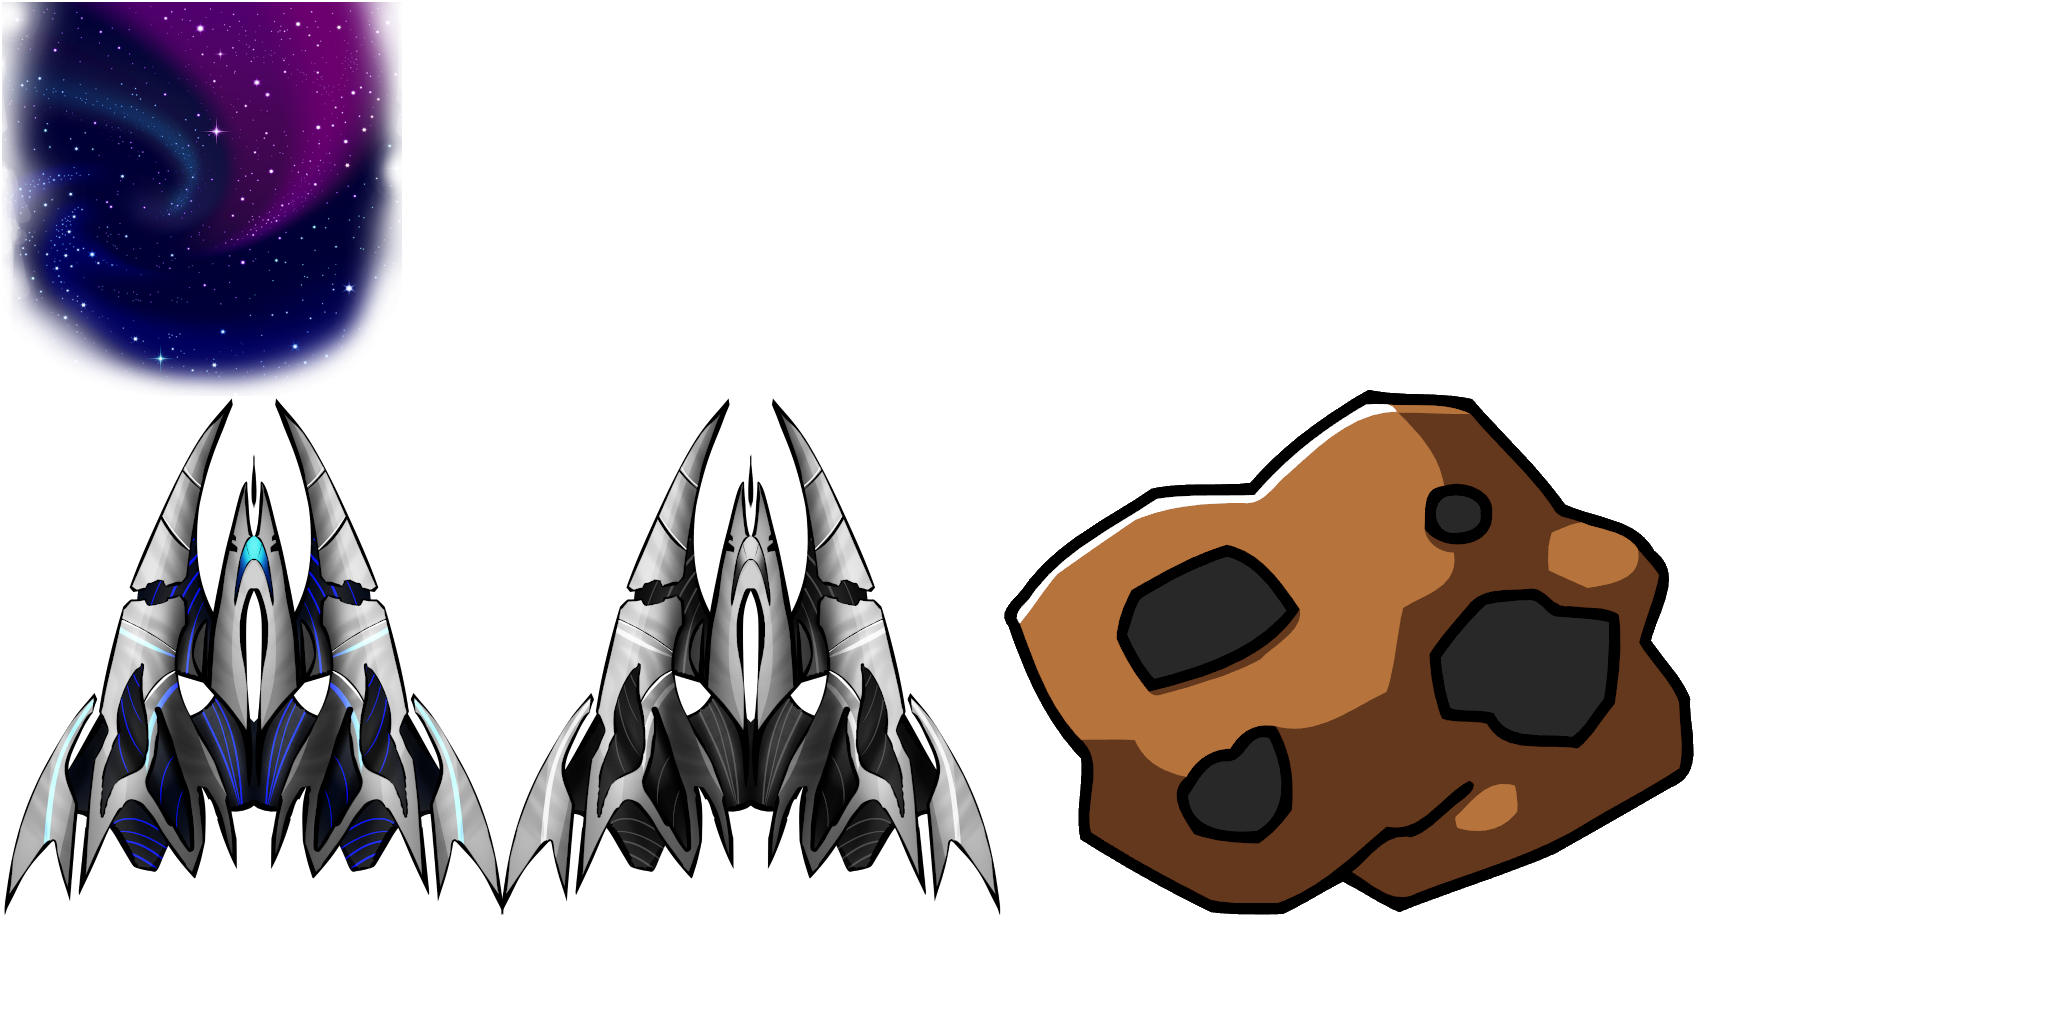
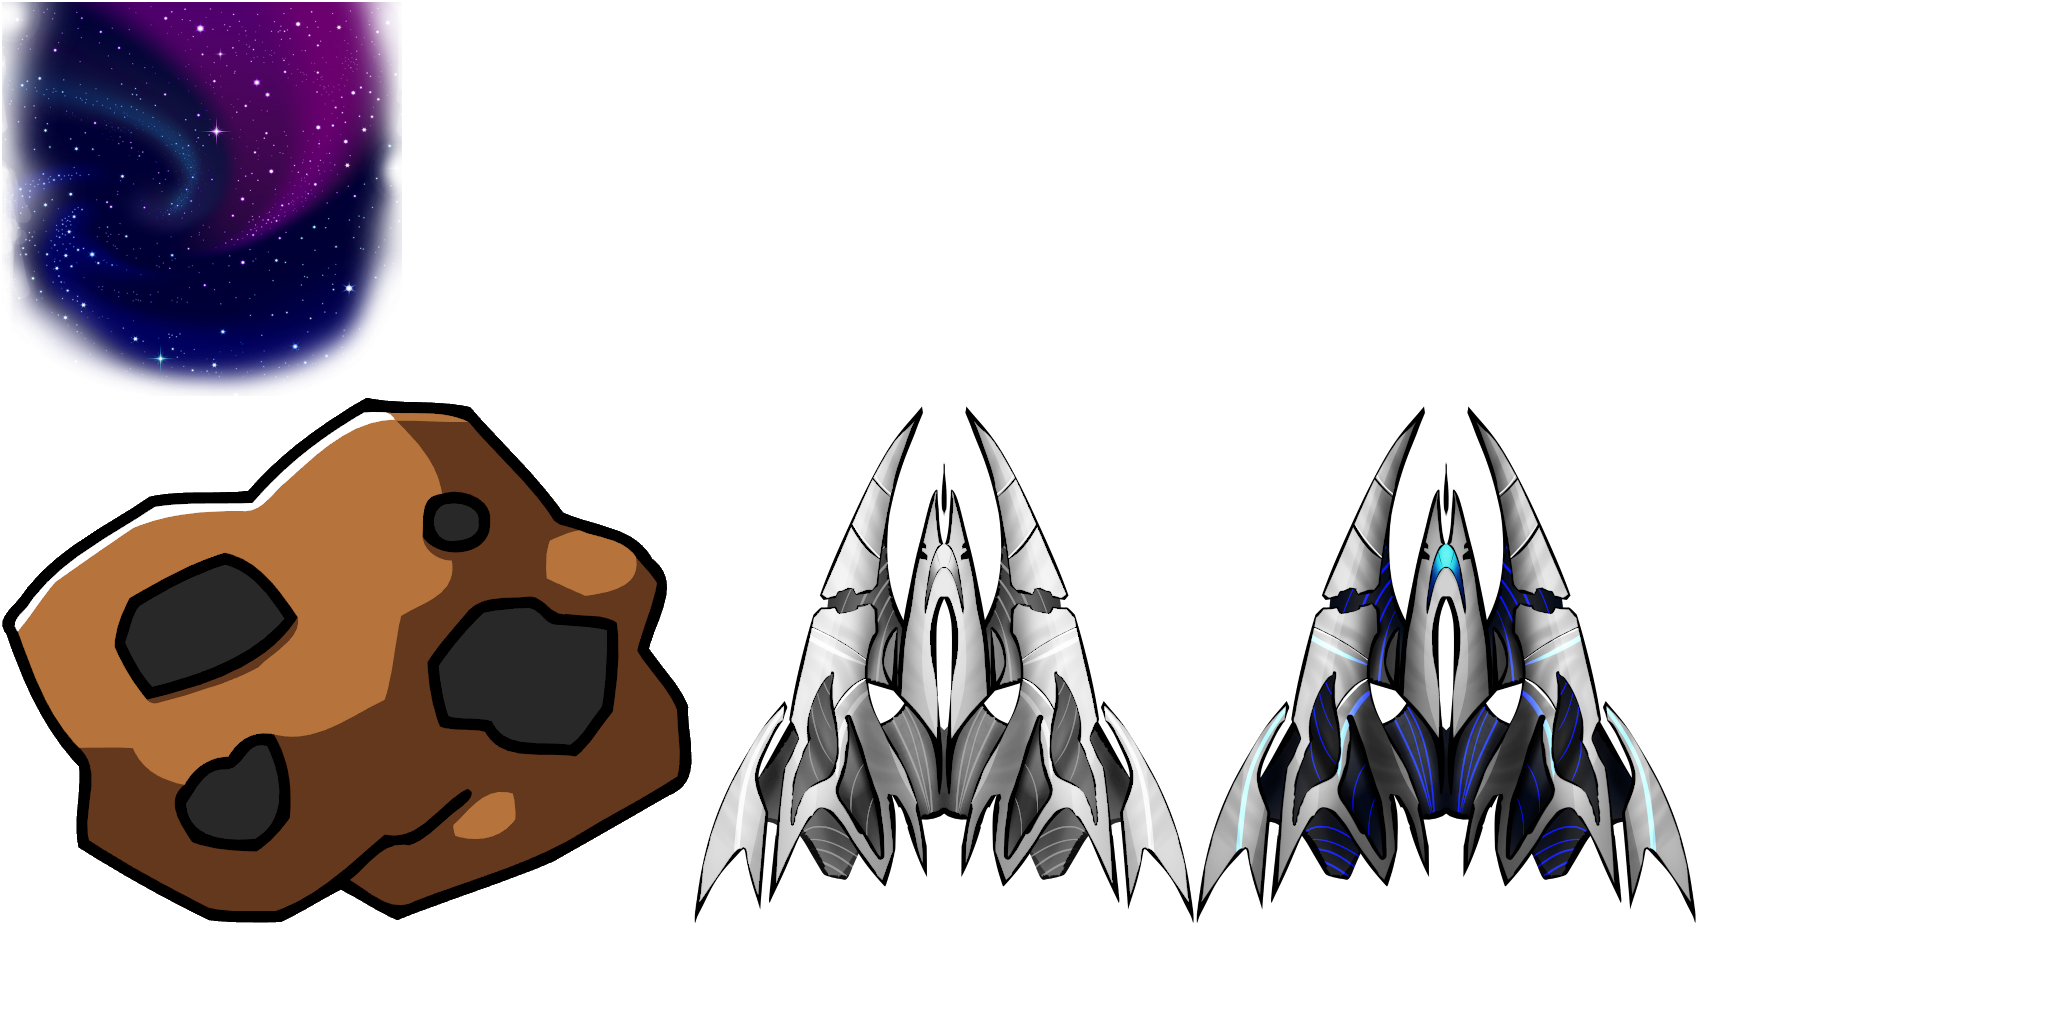
Разделил текстуру корабля на две части, с индексами

diff --git a/core/src/ru/geekbrains/stargame/screen/MenuScreen.java b/core/src/ru/geekbrains/stargame/screen/MenuScreen.java
@@ -4,14 +4,13 @@ import com.badlogic.gdx.Game;
 import com.badlogic.gdx.Gdx;
 import com.badlogic.gdx.graphics.GL20;
 import com.badlogic.gdx.graphics.g2d.TextureAtlas;
-import com.badlogic.gdx.graphics.g2d.TextureRegion;
 import com.badlogic.gdx.math.Vector2;
 import ru.geekbrains.stargame.base.BaseScreen;
 import ru.geekbrains.stargame.exceptions.GameException;
 import ru.geekbrains.stargame.math.Rect;
 import ru.geekbrains.stargame.sprites.BackgroundSprite;
-import ru.geekbrains.stargame.sprites.ButtonExit;
-import ru.geekbrains.stargame.sprites.ButtonPlay;
+import ru.geekbrains.stargame.sprites.ExitButton;
+import ru.geekbrains.stargame.sprites.PlayButton;
 
 public class MenuScreen extends BaseScreen {
   private final Game game;
@@ -19,8 +18,8 @@ public class MenuScreen extends BaseScreen {
   private BackgroundSprite backgroundSprite;
   private TextureAtlas menuAtlas;
   private TextureAtlas gameAtlas;
-  private ButtonExit buttonExit;
-  private ButtonPlay buttonPlay;
+  private ExitButton exitButton;
+  private PlayButton playButton;
 
   public MenuScreen(final Game game) {
     this.game = game;
@@ -31,14 +30,12 @@ public class MenuScreen extends BaseScreen {
     super.show();
 
     menuAtlas = new TextureAtlas(Gdx.files.internal("textures/menuAtlas.pack"));
-
-    gameAtlas = new TextureAtlas("StarGame.atlas");
-    final TextureRegion background = gameAtlas.findRegion("background");
+    gameAtlas = new TextureAtlas(Gdx.files.internal("StarGame.atlas"));
 
     try {
-      backgroundSprite = new BackgroundSprite(background);
-      buttonExit = new ButtonExit(menuAtlas);
-      buttonPlay = new ButtonPlay(menuAtlas, game);
+      backgroundSprite = new BackgroundSprite(gameAtlas);
+      exitButton = new ExitButton(menuAtlas);
+      playButton = new PlayButton(menuAtlas, game);
     } catch (GameException e) {
       throw new RuntimeException(e);
     }
@@ -52,8 +49,8 @@ public class MenuScreen extends BaseScreen {
   @Override
   public void resize(final Rect worldBounds) {
     backgroundSprite.resize(worldBounds);
-    buttonExit.resize(worldBounds);
-    buttonPlay.resize(worldBounds);
+    exitButton.resize(worldBounds);
+    playButton.resize(worldBounds);
   }
 
   @Override
@@ -75,15 +72,15 @@ public class MenuScreen extends BaseScreen {
 
   @Override
   public boolean touchUp(final Vector2 touch, final int pointer, final int button) {
-    buttonExit.touchUp(touch, pointer, button);
-    buttonPlay.touchUp(touch, pointer, button);
+    exitButton.touchUp(touch, pointer, button);
+    playButton.touchUp(touch, pointer, button);
     return false;
   }
 
   @Override
   public boolean touchDown(final Vector2 touch, final int pointer, final int button) {
-    buttonExit.touchDown(touch, pointer, button);
-    buttonPlay.touchDown(touch, pointer, button);
+    exitButton.touchDown(touch, pointer, button);
+    playButton.touchDown(touch, pointer, button);
     return false;
   }
 
@@ -92,8 +89,8 @@ public class MenuScreen extends BaseScreen {
     Gdx.gl.glClear(GL20.GL_COLOR_BUFFER_BIT);
     batch.begin();
     backgroundSprite.draw(batch);
-    buttonPlay.draw(batch);
-    buttonExit.draw(batch);
+    playButton.draw(batch);
+    exitButton.draw(batch);
     batch.end();
   }
 }

diff --git a/core/src/ru/geekbrains/stargame/screen/GameScreen.java b/core/src/ru/geekbrains/stargame/screen/GameScreen.java
@@ -3,7 +3,6 @@ package ru.geekbrains.stargame.screen;
 import com.badlogic.gdx.Gdx;
 import com.badlogic.gdx.graphics.GL20;
 import com.badlogic.gdx.graphics.g2d.TextureAtlas;
-import com.badlogic.gdx.graphics.g2d.TextureRegion;
 import com.badlogic.gdx.math.Vector2;
 import ru.geekbrains.stargame.base.BaseScreen;
 import ru.geekbrains.stargame.exceptions.GameException;
@@ -24,12 +23,10 @@ public class GameScreen extends BaseScreen {
     super.show();
 
     gameAtlas = new TextureAtlas("StarGame.atlas");
-    final TextureRegion background = gameAtlas.findRegion("background");
-    final TextureRegion smallShip = gameAtlas.findRegion("ship");
 
     try {
-      shipSprite = new ShipSprite(smallShip);
-      backgroundSprite = new BackgroundSprite(background);
+      shipSprite = new ShipSprite(gameAtlas);
+      backgroundSprite = new BackgroundSprite(gameAtlas);
       asteroids = new AsteroidSprite[ASTEROID_COUNT];
 
       for (int i = 0; i < ASTEROID_COUNT; i++) {

diff --git a/core/src/ru/geekbrains/stargame/sprites/ShipSprite.java b/core/src/ru/geekbrains/stargame/sprites/ShipSprite.java
@@ -1,6 +1,6 @@
 package ru.geekbrains.stargame.sprites;
 
-import com.badlogic.gdx.graphics.g2d.TextureRegion;
+import com.badlogic.gdx.graphics.g2d.TextureAtlas;
 import com.badlogic.gdx.math.Vector2;
 import ru.geekbrains.stargame.base.Sprite;
 import ru.geekbrains.stargame.exceptions.GameException;
@@ -11,8 +11,8 @@ public class ShipSprite extends Sprite {
   private Vector2 newPosition = new Vector2();
   private Vector2 dir = new Vector2();
 
-  public ShipSprite(TextureRegion texture) throws GameException {
-    super(new TextureRegion(texture));
+  public ShipSprite(TextureAtlas atlas) throws GameException {
+    super(atlas.findRegion("ship", 1));
   }
 
   @Override

diff --git a/core/src/ru/geekbrains/stargame/sprites/BackgroundSprite.java b/core/src/ru/geekbrains/stargame/sprites/BackgroundSprite.java
@@ -1,13 +1,13 @@
 package ru.geekbrains.stargame.sprites;
 
-import com.badlogic.gdx.graphics.g2d.TextureRegion;
+import com.badlogic.gdx.graphics.g2d.TextureAtlas;
 import ru.geekbrains.stargame.base.Sprite;
 import ru.geekbrains.stargame.exceptions.GameException;
 import ru.geekbrains.stargame.math.Rect;
 
 public class BackgroundSprite extends Sprite {
-  public BackgroundSprite(TextureRegion texture) throws GameException {
-    super(new TextureRegion(texture));
+  public BackgroundSprite(TextureAtlas atlas) throws GameException {
+    super(atlas.findRegion("background"));
     this.setSize(1f, 1f);
   }
 

diff --git a/core/src/ru/geekbrains/stargame/sprites/PlayButton.java b/core/src/ru/geekbrains/stargame/sprites/PlayButton.java
@@ -7,11 +7,11 @@ import ru.geekbrains.stargame.exceptions.GameException;
 import ru.geekbrains.stargame.math.Rect;
 import ru.geekbrains.stargame.screen.GameScreen;
 
-public class ButtonPlay extends ScaledButton {
+public class PlayButton extends ScaledButton {
 
   private final Game game;
 
-  public ButtonPlay(TextureAtlas atlas, Game game) throws GameException {
+  public PlayButton(TextureAtlas atlas, Game game) throws GameException {
     super(atlas.findRegion("btPlay"));
     this.game = game;
   }

diff --git a/core/src/ru/geekbrains/stargame/sprites/ExitButton.java b/core/src/ru/geekbrains/stargame/sprites/ExitButton.java
@@ -6,9 +6,9 @@ import ru.geekbrains.stargame.base.ScaledButton;
 import ru.geekbrains.stargame.exceptions.GameException;
 import ru.geekbrains.stargame.math.Rect;
 
-public class ButtonExit extends ScaledButton {
+public class ExitButton extends ScaledButton {
 
-  public ButtonExit(TextureAtlas atlas) throws GameException {
+  public ExitButton(TextureAtlas atlas) throws GameException {
     super(atlas.findRegion("btExit"));
   }
 
